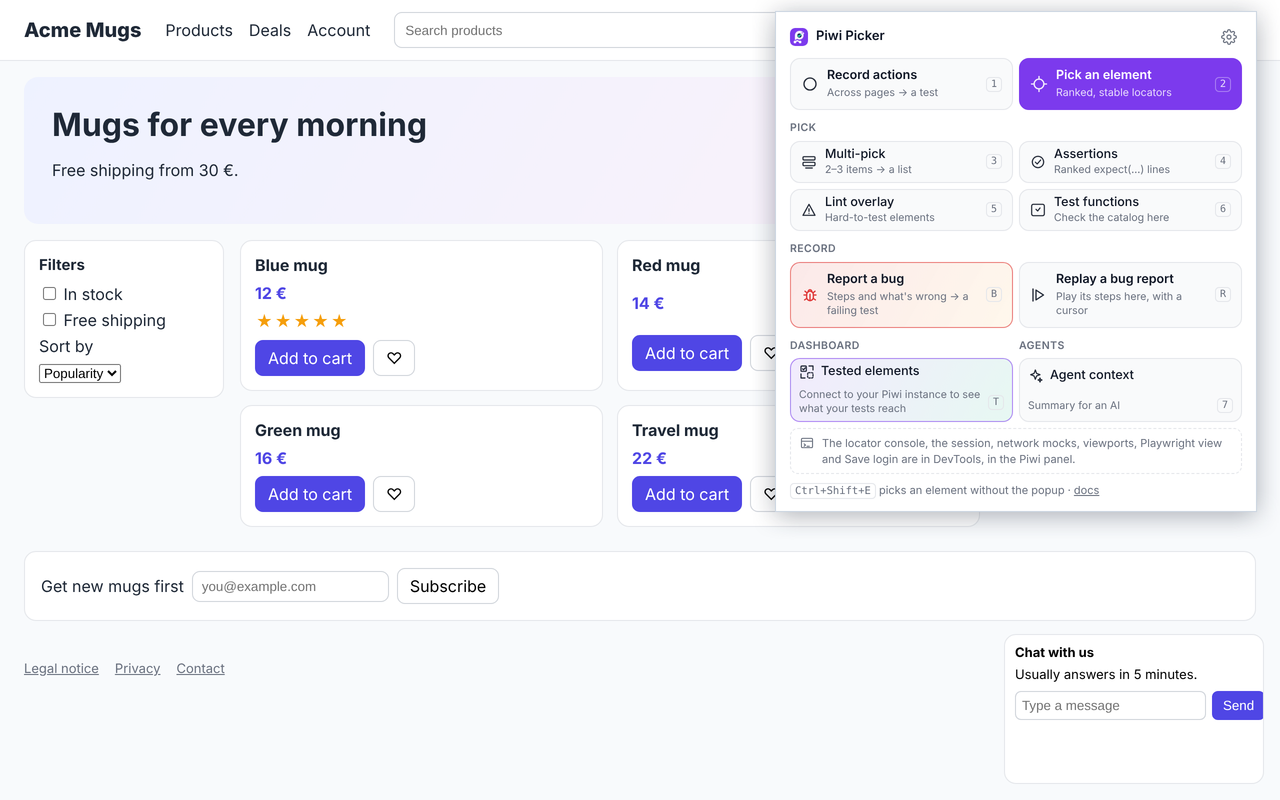
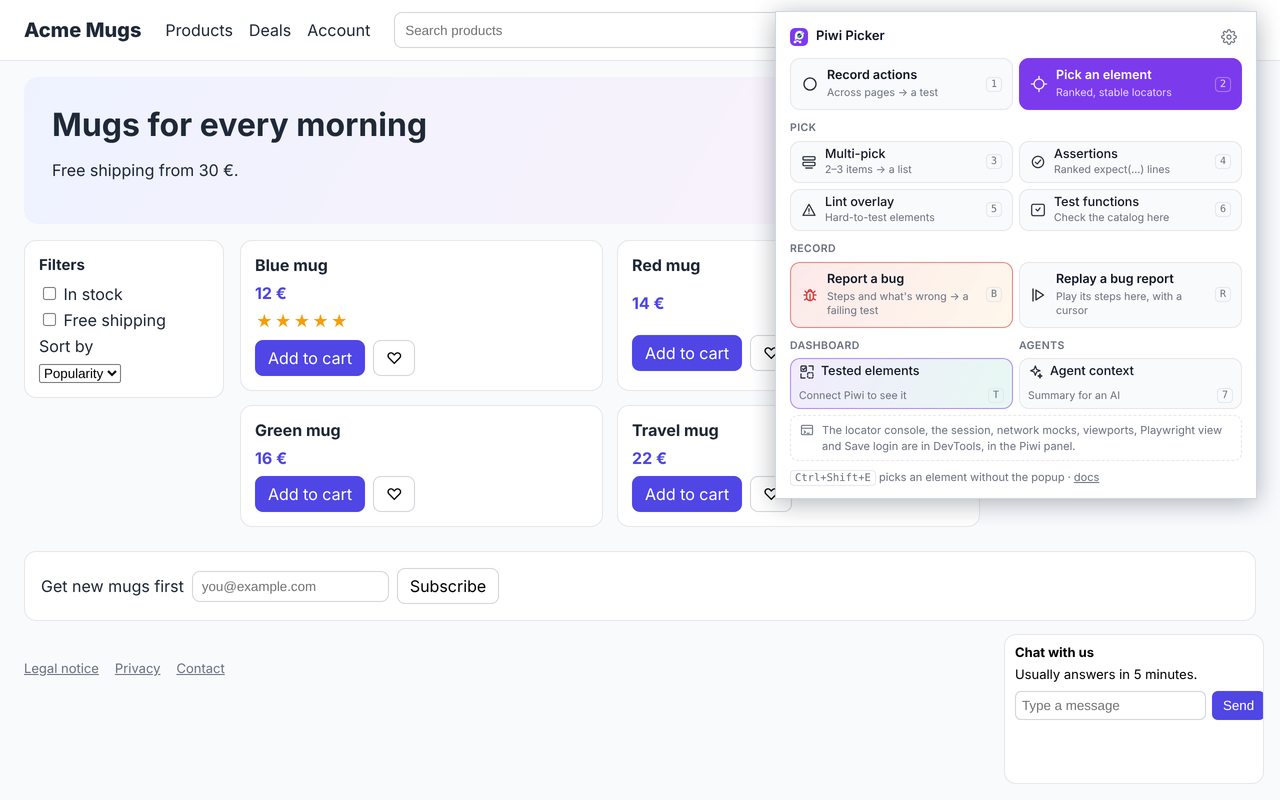
fix(extension): keep the popup's narrow tiles whole, and the trays' update and docs in step
The tiles side by side under Run control, Dashboard and Agents hold their label and hint whole in
every language: Tested elements takes popup-only hints short enough for its tile, a label wraps to
two lines at most, and a running tool's tile says so by its border alone, so the popup stays
within 600 pixels with every row shown and a tool running. The translator notes give the tiles'
widths. The feature catalog places Lint overlay under Pick and Runs under Run control. A failed
update from Piwi Desktop's tray puts back the tooltip of its runs, and the desktop docs say what
the tray's Check for updates… does.

Claude-Session: https://claude.ai/code/session_01ADXAbgLa1GyZ9WFsEkfbW2

Changed region(s): [[0.5938, 0.4375, 1.0, 0.6562]]

diff --git a/apps/extension/tests/e2e/popup.spec.ts b/apps/extension/tests/e2e/popup.spec.ts
@@ -52,8 +52,8 @@ test.describe('popup.html', () => {
   test('every tool tile carries a digit shortcut, 1 through 7, in render order', async ({ context, extensionId }) => {
     const page = await context.newPage();
     await page.goto(`chrome-extension://${extensionId}/popup.html`);
-    // The Runs tile, in More tools' free cell while the editor's runs show, has a letter, as the flows do.
-    const keys = await page.locator('.actions button:not(#runs)').evaluateAll((buttons) =>
+    // The Runs tile, under Run control while the editor's runs show, has a letter, as the flows do.
+    const keys = await page.locator('.actions button').evaluateAll((buttons) =>
       buttons.map((b) => ({
         id: b.id,
         badge: b.querySelector('.key')?.textContent ?? null,
@@ -370,9 +370,7 @@ test.describe('Tested elements tile', () => {
   test('without a connection it says so and opens the settings', async ({ context, extensionId }) => {
     const page = await context.newPage();
     await page.goto(`chrome-extension://${extensionId}/popup.html`);
-    await expect(page.locator('#coverage-hint')).toHaveText(
-      'Connect to your Piwi instance to see what your tests reach',
-    );
+    await expect(page.locator('#coverage-hint')).toHaveText('Connect Piwi to see it');
     const [options] = await Promise.all([context.waitForEvent('page'), page.locator('#coverage-overlay').click()]);
     await expect(options).toHaveURL(new RegExp(`chrome-extension://${extensionId}/options.html`));
   });
@@ -390,7 +388,7 @@ test.describe('Tested elements tile', () => {
       }),
     );
     await page.reload();
-    await expect(page.locator('#coverage-hint')).toHaveText('What your tests reach on this page, and what they miss');
+    await expect(page.locator('#coverage-hint')).toHaveText('What your tests reach here');
   });
 });
 
@@ -472,15 +470,35 @@ async function connectedPopupHeight(page: Page, extensionId: string): Promise<nu
   await expect(page.locator('#connection-health')).toBeVisible();
   await page.locator('#runs').evaluate((tile: HTMLElement) => (tile.hidden = false));
   await expect(page.locator('#runs')).toBeVisible();
+  // Tested elements running on the page, as its tile shows it then.
+  await page.locator('#coverage-overlay').evaluate((tile) => tile.classList.add('running'));
   return page.locator('.popup').evaluate((el) => el.getBoundingClientRect().height);
 }
 
-for (const language of ['de', 'fr', 'es', 'pt-BR']) {
+/** Whether the label or the hint of a tile side by side under its section's name is cut. */
+async function sectionTilesCut(page: Page): Promise<string[]> {
+  return page.locator('.grid.sections .tile').evaluateAll((tiles) =>
+    tiles.flatMap((tile) =>
+      ['.label', '.hint'].flatMap((part) => {
+        const el = tile.querySelector(part) as HTMLElement;
+        return el.scrollHeight > el.clientHeight + 1 || el.scrollWidth > el.clientWidth + 1
+          ? [`${tile.id} ${part}`]
+          : [];
+      }),
+    ),
+  );
+}
+
+for (const language of ['en', 'de', 'fr', 'es', 'pt-BR']) {
   test.describe(`in ${language}`, () => {
     test.use({ browserLanguage: language });
-    test('the popup fits a popup’s 600 pixels', async ({ context, extensionId }) => {
+    test('the popup fits a popup’s 600 pixels, its tiles under Run control, Dashboard and Agents cut nothing', async ({
+      context,
+      extensionId,
+    }) => {
       const page = await context.newPage();
       expect(await connectedPopupHeight(page, extensionId)).toBeLessThanOrEqual(600);
+      expect(await sectionTilesCut(page)).toEqual([]);
     });
   });
 }

diff --git a/apps/extension/popup.html b/apps/extension/popup.html
@@ -434,6 +434,15 @@
       }
       .grid.sections .tile .label {
         grid-area: 1 / 2 / 2 / 4;
+        display: -webkit-box;
+        -webkit-box-orient: vertical;
+        -webkit-line-clamp: 2;
+        line-clamp: 2;
+        overflow: hidden;
+      }
+      /* The running tool's tile says so by its accent border alone here: a word after its label would add a line. */
+      .grid.sections .tile.running .label::after {
+        content: none;
       }
       .grid.sections .tile .hint {
         grid-area: 2 / 1 / 3 / 3;
@@ -698,8 +707,8 @@
           <div class="section-label" id="run-control-section-label" data-i18n="popup_sectionRunControl">
             Run control
           </div>
-          <!-- The editor's runs, in a window of their own: shown, in the grid's free cell, while an editor or the
-             desktop app is paired, muted while none of its hubs answers. -->
+          <!-- The editor's runs, in a window of their own: shown while an editor or the desktop app is paired, muted while
+             none of its hubs answers. -->
           <button id="runs" class="tile compact runs" type="button" aria-keyshortcuts="U" hidden>
             <svg viewBox="0 0 24 24" aria-hidden="true" focusable="false">
               <path d="M8.5 5.5v13M15.5 5.5v13" />
@@ -722,8 +731,8 @@
             </svg>
             <span class="text">
               <span class="label" data-i18n="popup_testedElements">Tested elements</span>
-              <span class="hint" id="coverage-hint" data-i18n="popup_testedElementsHint"
-                >What your tests reach on this page, and what they miss</span
+              <span class="hint" id="coverage-hint" data-i18n="popup_testedElementsShort"
+                >What your tests reach here</span
               >
             </span>
             <kbd class="key" aria-hidden="true">T</kbd>

diff --git a/apps/application/shared/piwi-features.ts b/apps/application/shared/piwi-features.ts
@@ -842,7 +842,7 @@ export const PIWI_FEATURE_GROUPS: FeatureGroup[] = [
         title: 'Lint overlay',
         summary: 'The buttons, links and fields of a page no stable locator finds alone, each with the test id to add.',
         needs: ['extension'],
-        where: 'Browser extension → More tools → Lint overlay',
+        where: 'Browser extension → Pick → Lint overlay',
         doc: 'features/lint-overlay',
         part: 'On the page',
       },
@@ -905,7 +905,7 @@ export const PIWI_FEATURE_GROUPS: FeatureGroup[] = [
         summary:
           "A window beside the test's browser that pauses, steps and resumes the tests your editor runs, writes code from a stop through the editor, and shows a headless test's page live, to click, type and pick a locator on.",
         needs: ['fixtures', 'extension'],
-        where: 'Browser extension → More tools → Runs',
+        where: 'Browser extension → Run control → Runs',
         doc: 'features/runs-window',
       },
     ],

diff --git a/apps/extension/src/popup/main.ts b/apps/extension/src/popup/main.ts
@@ -199,7 +199,7 @@ async function refreshActiveProjectSelect(): Promise<void> {
   const override = await getActiveProjectOverride(tabUrl);
 
   connected = isConnected(connection);
-  coverageHint.textContent = connected ? t('popup_testedElementsHint') : t('popup_testedElementsConnect');
+  coverageHint.textContent = connected ? t('popup_testedElementsShort') : t('popup_testedElementsConnectShort');
   if (!connected) {
     // Connected to an instance that has no pattern yet: only the offer to add this site.
     const reachable = connection.instanceUrl.trim() !== '' && connection.serverSyncedAt > 0;

diff --git a/apps/desktop/src-tauri/src/updates.rs b/apps/desktop/src-tauri/src/updates.rs
@@ -468,8 +468,9 @@ fn tray_answer(status: &UpdateStatus, installed: &str) -> TrayAnswer {
 
 /// The tray's Check for updates: check, say what was found, and on the
 /// person's yes install the update and restart. Progress shows in the tray
-/// icon's tooltip; `idle_tooltip` is put back when the install fails.
-pub fn check_from_tray(app: &AppHandle, idle_tooltip: &'static str) {
+/// icon's tooltip; `restore_tooltip` puts the app's own back when the install
+/// fails.
+pub fn check_from_tray(app: &AppHandle, restore_tooltip: fn(&AppHandle)) {
     let Some(busy) = app.try_state::<TrayUpdateBusy>() else {
         return;
     };
@@ -524,7 +525,7 @@ pub fn check_from_tray(app: &AppHandle, idle_tooltip: &'static str) {
                             "Update",
                             move |go| {
                                 if go {
-                                    tauri::async_runtime::spawn(install_and_restart(after, idle_tooltip));
+                                    tauri::async_runtime::spawn(install_and_restart(after, restore_tooltip));
                                 } else {
                                     after.state::<TrayUpdateBusy>().0.store(false, Ordering::SeqCst);
                                 }
@@ -539,7 +540,7 @@ pub fn check_from_tray(app: &AppHandle, idle_tooltip: &'static str) {
 /// Download and install the update the last check found, its progress in the
 /// tray's tooltip, then restart. On Windows the install never returns: the
 /// plugin hands over to the installer, which starts the app again.
-async fn install_and_restart(app: AppHandle, idle_tooltip: &'static str) {
+async fn install_and_restart(app: AppHandle, restore_tooltip: fn(&AppHandle)) {
     let tooltip = |text: &str| {
         if let Some(tray) = app.tray_by_id("main") {
             let _ = tray.set_tooltip(Some(text));
@@ -569,7 +570,7 @@ async fn install_and_restart(app: AppHandle, idle_tooltip: &'static str) {
     match installed {
         Ok(()) => app.restart(),
         Err(error) => {
-            tooltip(idle_tooltip);
+            restore_tooltip(&app);
             app.state::<TrayUpdateBusy>().0.store(false, Ordering::SeqCst);
             tell(&app, MessageDialogKind::Error, &format!("The update failed: {error}"));
         }

diff --git a/apps/desktop/src-tauri/src/runner_app.rs b/apps/desktop/src-tauri/src/runner_app.rs
@@ -204,6 +204,13 @@ fn menu<R: tauri::Runtime>(app: &AppHandle<R>) -> tauri::Result<tauri::menu::Men
     Ok(menu)
 }
 
+/// Put the tray's tooltip back, once an update the tray started failed.
+fn idle_tooltip(app: &AppHandle) {
+    if let Some(tray) = app.tray_by_id("main") {
+        let _ = tray.set_tooltip(Some(TRAY_TOOLTIP));
+    }
+}
+
 /// The tray icon: a click opens the window, and its menu holds, in the desktop app's order and with its glyphs, Open,
 /// Run in background and Start on login, Check for updates in a build that can update itself, Show logs and Quit.
 fn tray(app: &tauri::App, can_update: bool) -> tauri::Result<()> {
@@ -247,7 +254,7 @@ fn tray(app: &tauri::App, can_update: bool) -> tauri::Result<()> {
             "show_logs" => reveal_log(app),
             TRAY_RUN_BG_ID => toggle_run_in_background(app),
             TRAY_START_ON_LOGIN_ID => toggle_start_on_login(app),
-            "check_update" => updates::check_from_tray(app, TRAY_TOOLTIP),
+            "check_update" => updates::check_from_tray(app, idle_tooltip),
             "quit" => quit_after_confirming(app, APP_NAME),
             _ => {}
         });

diff --git a/apps/desktop/src-tauri/src/lib.rs b/apps/desktop/src-tauri/src/lib.rs
@@ -3865,7 +3865,7 @@ pub fn run() {
                     "show_logs" => reveal_log(app),
                     TRAY_AGENTS_ID => open_page(app, "/settings/mcp"),
                     TRAY_CONNECTION_ID => open_page(app, "/settings/desktop"),
-                    "check_update" => updates::check_from_tray(app, TRAY_TOOLTIP_IDLE),
+                    "check_update" => updates::check_from_tray(app, refresh_tray_tooltip),
                     "open_folder" => {
                         let dir = app.state::<DataDir>().0.clone();
                         let _ = app

diff --git a/apps/docs/features/desktop.md b/apps/docs/features/desktop.md
@@ -39,9 +39,9 @@ once, then **Open Anyway** in **Privacy & Security**; on Windows, **More info** 
 
 Its data, and how to back it up: [the desktop app's data](/operate/backup-restore#the-desktop-app).
 
-The tray menu, in the editors' order: **Show the stopped test** while one waits, **Open Piwi Desktop**, **Stop** per
-running test (the machine kept awake), **MCP server…**, **Desktop app settings…**, **Run in background** (off, closing
-the window quits), **Start on login**, **Check for updates…**, **Open data folder**, **Show logs**, **Quit**. The windows open where you left them, with [keyboard shortcuts](/reference/keyboard-shortcuts#desktop-app)
+The tray menu, in the editors' order: **Show the stopped test** if one waits, **Open Piwi Desktop**, **Stop** per
+running test (machine kept awake), **MCP server…**, **Desktop app settings…**, **Run in background** (off, closing
+the window quits), **Start on login**, **Check for updates…**, **Open data folder**, **Show logs**, **Quit Piwi Desktop**. The windows open where you left them, with [keyboard shortcuts](/reference/keyboard-shortcuts#desktop-app)
 and macOS menu items. **Open in a
 window**, on a worker of the [Local runs tray](./desktop-runs), keeps that worker in a window above the others.
 While a run reports into the app, from the app, an editor, a terminal or CI, its progress shows on the taskbar button or
@@ -147,8 +147,8 @@ The app serves the [MCP server](/features/mcp) with local tools a hosted instanc
 ## Updates
 
 **Settings → About → Updates** checks for a newer release (also at startup), lists what changed since your version,
-breaking changes first, and installs it on restart. The `.exe` needs no admin rights; the `.msi` does. Downloads are
-signature-checked.
+breaking changes first, and installs it on restart; the tray's **Check for updates…** installs and restarts.
+The `.exe` needs no admin rights; the `.msi` does. Downloads are signature-checked.
 
 ## Limits
 
